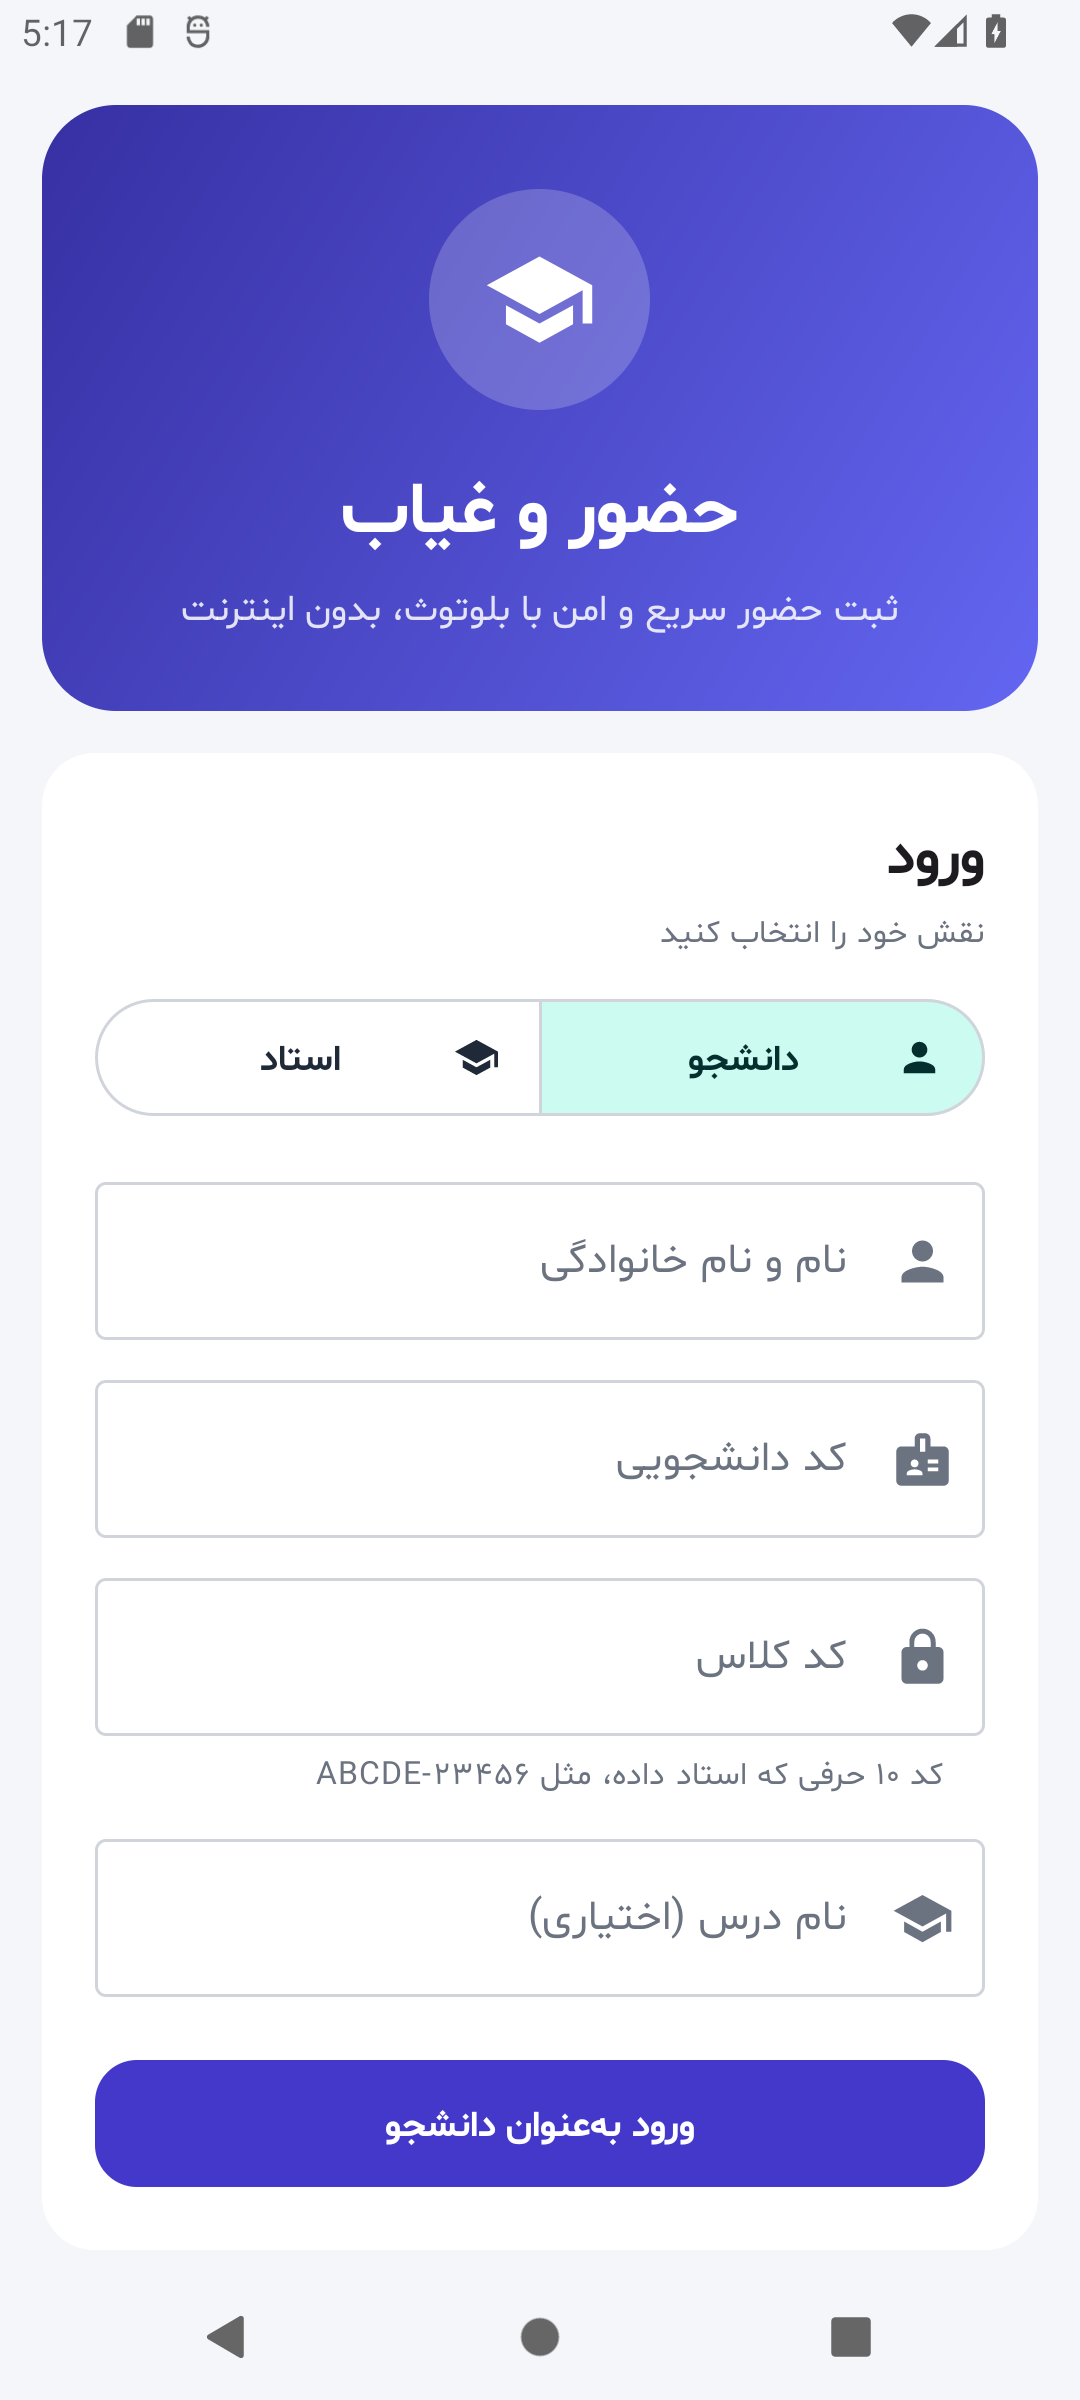
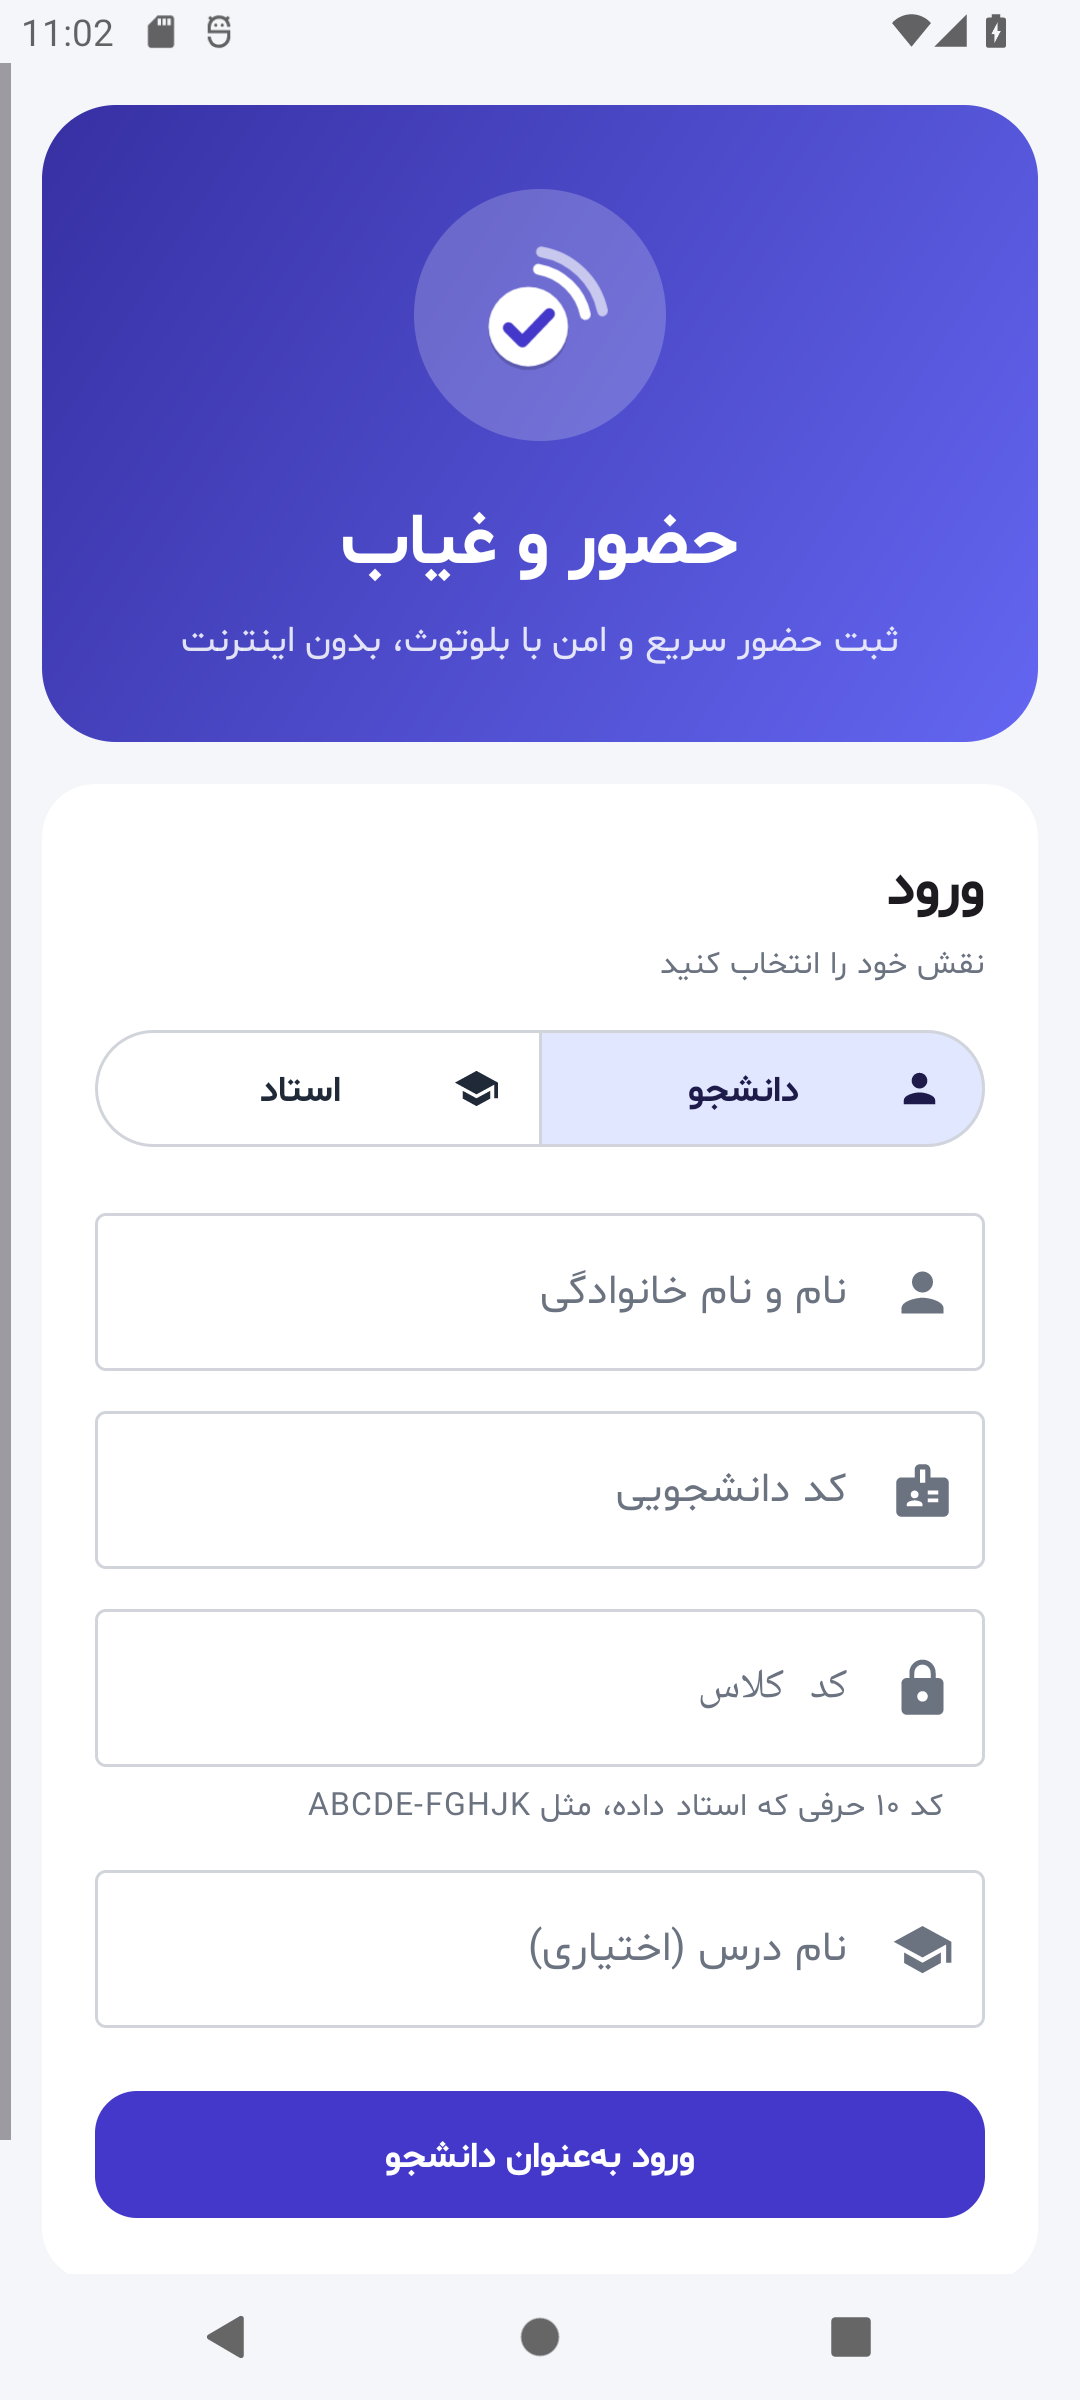
fix : راستچین شدن متنهای QR در تنظیمات جلسه، تست خوانده شدن QR و عکسهای جدید
- عنوان و کلید «QR چرخشی» که با حروف لاتین شروع میشوند چپچین نمایش داده میشدند
- تست: QR ساختهشده با خواننده ZXing دوباره خوانده میشود
- عکسهای صفحه ورود با آیکون جدید، تنظیمات جلسه، سابقه حضور و آیکون در گوشی

diff --git a/app/src/main/java/com/ali_1200/presence/TeacherDialogs.kt b/app/src/main/java/com/ali_1200/presence/TeacherDialogs.kt
@@ -131,14 +131,17 @@ fun Fragment.showSessionSettingsDialog(settings: SessionSettings, onChanged: () 
         val padding = (24 * density).toInt()
         setPadding(padding, (8 * density).toInt(), padding, 0)
     }
+    // متنی که با «QR» شروع میشود هم راستچین بماند
     fun label(text: String, top: Int) = TextView(context).apply {
         this.text = text
+        textDirection = View.TEXT_DIRECTION_RTL
         setTextAppearance(com.google.android.material.R.style.TextAppearance_Material3_TitleSmall)
         typeface = ResourcesCompat.getFont(context, R.font.shabnam_bold_fd)
         setPadding(0, (top * density).toInt(), 0, (4 * density).toInt())
     }
     fun hint(text: String) = TextView(context).apply {
         this.text = text
+        textDirection = View.TEXT_DIRECTION_RTL
         setTextAppearance(com.google.android.material.R.style.TextAppearance_Material3_BodySmall)
         typeface = ResourcesCompat.getFont(context, R.font.shabnam_fd)
         setTextColor(ContextCompat.getColor(context, R.color.on_surface_variant))
@@ -162,6 +165,7 @@ fun Fragment.showSessionSettingsDialog(settings: SessionSettings, onChanged: () 
     content.addView(hint("دانشجو باید QR روی صفحه شما را هم اسکن کند؛ QR هر ۱۰ ثانیه عوض میشود، پس عکسش برای دوست بیرون کلاس به کار نمیآید"))
     val qrSwitch = MaterialSwitch(context).apply {
         text = "QR الزامی باشد"
+        textDirection = View.TEXT_DIRECTION_RTL
         typeface = ResourcesCompat.getFont(context, R.font.shabnam_fd)
         isChecked = settings.qrRequired
     }

diff --git a/app/src/main/java/com/ali_1200/presence/RotatingQr.kt b/app/src/main/java/com/ali_1200/presence/RotatingQr.kt
@@ -4,6 +4,7 @@ import android.graphics.Bitmap
 import android.graphics.Color
 import com.google.zxing.BarcodeFormat
 import com.google.zxing.EncodeHintType
+import com.google.zxing.common.BitMatrix
 import com.google.zxing.qrcode.QRCodeWriter
 import com.google.zxing.qrcode.decoder.ErrorCorrectionLevel
 import java.nio.ByteBuffer
@@ -42,10 +43,14 @@ object RotatingQr {
 
     // تصویر سیاه و سفید QR برای نمایش روی صفحه استاد
     fun bitmap(text: String, size: Int): Bitmap {
-        val hints = mapOf(EncodeHintType.MARGIN to 1, EncodeHintType.ERROR_CORRECTION to ErrorCorrectionLevel.M)
-        val matrix = QRCodeWriter().encode(text, BarcodeFormat.QR_CODE, size, size, hints)
+        val matrix = matrix(text, size)
         val pixels = IntArray(size * size) { i -> if (matrix[i % size, i / size]) Color.BLACK else Color.WHITE }
         return Bitmap.createBitmap(pixels, size, size, Bitmap.Config.ARGB_8888)
+    }
+
+    fun matrix(text: String, size: Int): BitMatrix {
+        val hints = mapOf(EncodeHintType.MARGIN to 1, EncodeHintType.ERROR_CORRECTION to ErrorCorrectionLevel.M)
+        return QRCodeWriter().encode(text, BarcodeFormat.QR_CODE, size, size, hints)
     }
 
     private fun parse(text: String?): Pair<Long, String>? {

diff --git a/app/src/test/java/com/ali_1200/presence/RotatingQrTest.kt b/app/src/test/java/com/ali_1200/presence/RotatingQrTest.kt
@@ -4,6 +4,10 @@ import org.junit.Assert.assertEquals
 import org.junit.Assert.assertFalse
 import org.junit.Assert.assertTrue
 import org.junit.Test
+import com.google.zxing.BinaryBitmap
+import com.google.zxing.RGBLuminanceSource
+import com.google.zxing.common.HybridBinarizer
+import com.google.zxing.qrcode.QRCodeReader
 
 class RotatingQrTest {
     private val code = "ABCDE23456"
@@ -59,5 +63,15 @@ class RotatingQrTest {
         // QR داخل اثبات دانشجوست و در مسیر عوض نمیشود
         val payload = answer(qrAt(now))
         assertEquals(AttendanceVerifier.Result.AUTH_FAILED, verifier.verify(address, payload.copy(qr = qrAt(now - RotatingQr.PERIOD)), now))
+    }
+
+    // QR ساختهشده واقعاً با اسکنر خوانده میشود
+    @Test
+    fun generatedQrCanBeScanned() {
+        val text = qrAt(now)
+        val matrix = RotatingQr.matrix(text, 300)
+        val pixels = IntArray(300 * 300) { i -> if (matrix[i % 300, i / 300]) 0xFF000000.toInt() else -1 }
+        val bitmap = BinaryBitmap(HybridBinarizer(RGBLuminanceSource(300, 300, pixels)))
+        assertEquals(text, QRCodeReader().decode(bitmap).text)
     }
 }

diff --git a/README.md b/README.md
@@ -75,6 +75,10 @@
 |---|---|---|---|---|
 | ![](docs/screenshots/1-login.png) | ![](docs/screenshots/2-teacher-session.png) | ![](docs/screenshots/3-teacher-report.png) | ![](docs/screenshots/4-student-check-in.png) | ![](docs/screenshots/5-student-courses.png) |
 
+| استاد: تنظیمات جلسه | دانشجو: سابقه حضور | آیکون برنامه |
+|---|---|---|
+| ![](docs/screenshots/6-session-settings.png) | ![](docs/screenshots/7-student-history.png) | ![](docs/screenshots/8-app-icon.png) |
+
 - طراحی Material 3 با رنگبندی یکدست، کارتها و آیکونها؛ فونت فارسی **شبنم** با اعداد فارسی
 - برنامه همیشه فارسی و راستبهچپ است، حتی اگر زبان گوشی انگلیسی باشد
 - **ناوبری پایین**
